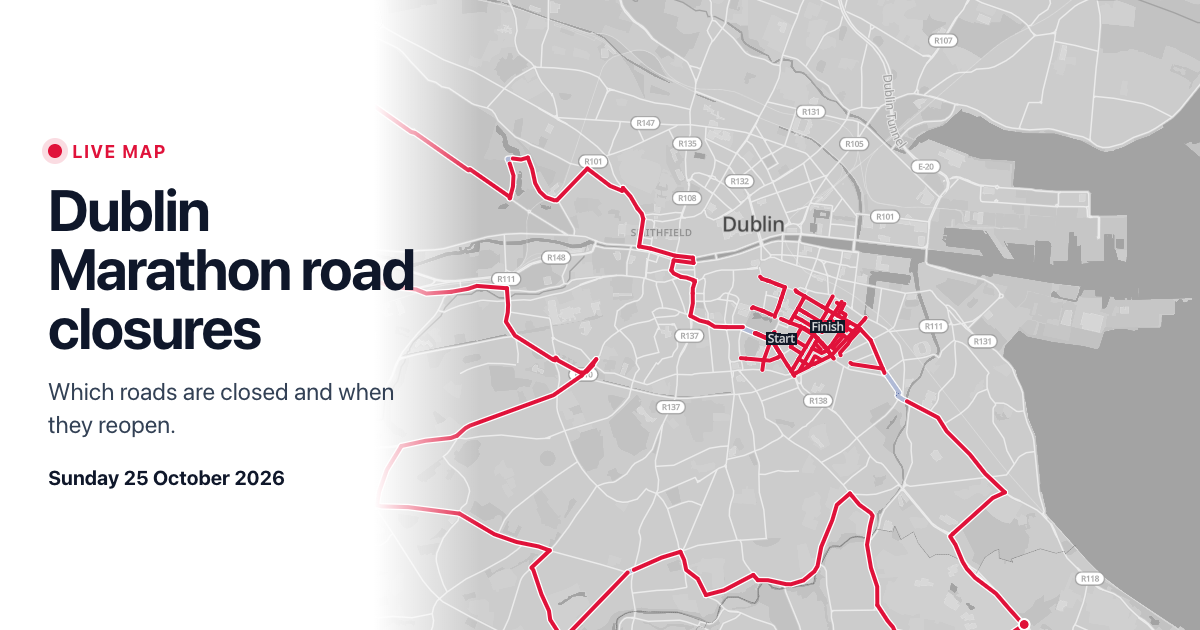
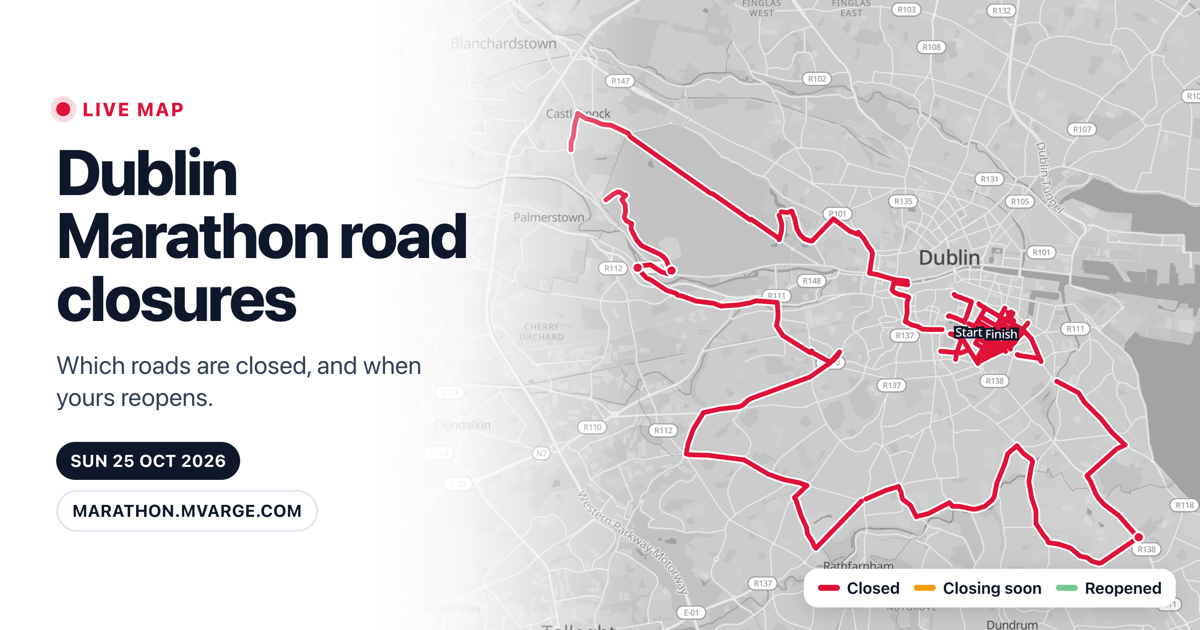
feat: copy-link button for exact view, map share thumbnail
- "Copy link" button encodes time, selected road, search and map
  position in a short URL so the recipient sees the same view
- address bar stays in sync with the view
- og/twitter image now uses an absolute https URL (relative path
  meant Reddit and others showed no thumbnail) and is a map-based
  card rendered by scripts/og.mjs, served as a 190 KB jpeg
- shorter title on narrow phones so it doesn't truncate

diff --git a/src/main.ts b/src/main.ts
@@ -191,11 +191,65 @@ map.on("load", async () => {
     map.on("mouseleave", id, () => (map.getCanvas().style.cursor = ""));
   }
 
-  // deep link ?road=slug
-  const deep = new URLSearchParams(location.search).get("road");
+  // restore a shared view: ?t=1015&road=crumlin-road&v=-6.29,53.33,13.2&q=kevin
+  const sp = new URLSearchParams(location.search);
+  const tParam = sp.get("t");
+  if (tParam && /^\d{3,4}$/.test(tParam)) {
+    const hh = Number(tParam.slice(0, -2)), mm = Number(tParam.slice(-2));
+    const mins = (hh * 60 + mm) - 4 * 60; // minutes after 4am Sunday
+    if (mins >= 0 && mins <= 72 * STEP_MIN) selectedTime = SUN_START + Math.round(mins / STEP_MIN) * STEP_MIN * 60_000;
+  }
+  if (sp.get("q")) q.value = sp.get("q")!;
+  applyTime();
+  const deep = sp.get("road");
   const r = deep && roads.find((x) => x.key === deep);
-  if (r) selectRoad(r, { fly: true });
-  else fitAll();
+  const v = sp.get("v")?.split(",").map(Number);
+  const hasView = v && v.length === 3 && v.every(Number.isFinite);
+  if (r) selectRoad(r, { fly: !hasView });
+  if (hasView) map.jumpTo({ center: [v![0], v![1]], zoom: v![2] });
+  else if (!r) fitAll();
+  restoring = false;
+});
+
+// ---------------------------------------------------------------- shareable view link
+let restoring = true;
+
+function viewParams(): URLSearchParams {
+  const p = new URLSearchParams();
+  if (selectedTime !== null) {
+    const p2 = Object.fromEntries(new Intl.DateTimeFormat("en-GB", { timeZone: TZ, hour: "2-digit", minute: "2-digit", hourCycle: "h23" }).formatToParts(selectedTime).map((x) => [x.type, x.value]));
+    p.set("t", `${Number(p2.hour)}${p2.minute}`);
+  }
+  const sel = openPopup && (openPopup as any)._road as Road | undefined;
+  if (sel) p.set("road", sel.key);
+  if (q.value.trim()) p.set("q", q.value.trim());
+  const c = map.getCenter();
+  p.set("v", `${c.lng.toFixed(4)},${c.lat.toFixed(4)},${map.getZoom().toFixed(1)}`);
+  return p;
+}
+
+function viewUrl() {
+  return `${location.origin}/?${viewParams().toString().replace(/%2C/g, ",")}`;
+}
+
+// keep the address bar in sync too, so copying from it also works
+let syncTimer = 0;
+function syncUrl() {
+  if (restoring) return;
+  clearTimeout(syncTimer);
+  syncTimer = window.setTimeout(() => history.replaceState(null, "", viewUrl().replace(location.origin, "")), 250);
+}
+map.on("moveend", syncUrl);
+
+$("copy-view").addEventListener("click", async () => {
+  const url = viewUrl();
+  try {
+    await navigator.clipboard.writeText(url);
+    showToast("Link copied. Anyone opening it sees this exact view.");
+  } catch {
+    // clipboard blocked (old browsers / http): fall back to a prompt they can copy from
+    window.prompt("Copy this link:", url);
+  }
 });
 
 function fitAll() {
@@ -286,6 +340,7 @@ function applyTime() {
     : `<b class="c-closed">${nClosed} closed</b>` + (nSoon ? ` · <b class="c-soon">${nSoon} closing within 2h</b>` : "") + (!live || isSunday(t) ? "" : ` · Main closures are on Sunday. Drag the slider to see them.`);
 
   renderList();
+  syncUrl();
   if (openPopup && (openPopup as any)._road) openPopup.setDOMContent(popupContent((openPopup as any)._road));
 }
 
@@ -386,11 +441,11 @@ function selectRoad(r: Road, opts: { fly: boolean; at?: maplibregl.LngLat }) {
     if (openPopup === popup) {
       openPopup = null;
       map.setFilter("roads-selected", ["==", ["get", "id"], ""]);
-      history.replaceState(null, "", location.pathname);
+      syncUrl();
     }
   });
   openPopup = popup;
-  history.replaceState(null, "", `?road=${r.key}`);
+  syncUrl();
   if (opts.fly) {
     map.fitBounds(r.bbox, { padding: padding(), maxZoom: 16, duration: 700 });
   }
@@ -398,7 +453,11 @@ function selectRoad(r: Road, opts: { fly: boolean; at?: maplibregl.LngLat }) {
 
 // ---------------------------------------------------------------- share
 async function share(r?: Road) {
-  const url = r ? `${location.origin}/?road=${r.key}` : location.origin;
+  const p = new URLSearchParams();
+  if (r) p.set("road", r.key);
+  const t = viewParams().get("t");
+  if (t) p.set("t", t);
+  const url = `${location.origin}/${p.size ? "?" + p : ""}`;
   const text = r ? `${baseName(r.name)}: ${describe(r, currentTime()).line.replace(/<[^>]+>/g, "")}. Dublin Marathon road closures map` : "Dublin Marathon road closures map";
   try {
     if (navigator.share) await navigator.share({ title: "Dublin Marathon road closures", text, url });
@@ -432,6 +491,7 @@ nowBtn.addEventListener("click", () => {
 });
 q.addEventListener("input", () => {
   renderList();
+  syncUrl();
   if (!matchMedia("(min-width: 820px)").matches) setSheet("full");
 });
 q.addEventListener("focus", () => {

diff --git a/index.html b/index.html
@@ -9,16 +9,21 @@
     <link rel="icon" href="/favicon.svg" type="image/svg+xml" />
 
     <meta property="og:type" content="website" />
+    <meta property="og:url" content="https://marathon.mvarge.com/" />
+    <link rel="canonical" href="https://marathon.mvarge.com/" />
     <meta property="og:title" content="Dublin Marathon road closures: live map" />
     <meta property="og:description" content="See which roads are closed right now, and when your road reopens. Sunday 25 October 2026." />
-    <meta property="og:image" content="/og.png" />
+    <meta property="og:image" content="https://marathon.mvarge.com/og.jpg" />
     <meta property="og:image:width" content="1200" />
     <meta property="og:image:height" content="630" />
+    <meta property="og:image:type" content="image/jpeg" />
+    <meta property="og:image:alt" content="Map of Dublin with marathon road closures highlighted in red" />
+    <meta property="og:site_name" content="Dublin Marathon road closures" />
     <meta property="og:locale" content="en_IE" />
     <meta name="twitter:card" content="summary_large_image" />
     <meta name="twitter:title" content="Dublin Marathon road closures: live map" />
     <meta name="twitter:description" content="See which roads are closed right now, and when your road reopens. Sunday 25 October 2026." />
-    <meta name="twitter:image" content="/og.png" />
+    <meta name="twitter:image" content="https://marathon.mvarge.com/og.jpg" />
 
     <link rel="preload" href="/data/closures.geojson" as="fetch" crossorigin />
   </head>
@@ -29,10 +34,14 @@
       <div class="brand">
         <span class="dot" aria-hidden="true"></span>
         <div>
-          <h1>Dublin Marathon road closures</h1>
+          <h1><span class="hide-sm">Dublin </span>Marathon road closures</h1>
           <p class="sub">Sunday 25 October 2026</p>
         </div>
       </div>
+      <button id="copy-view" class="copy-btn" title="Copy a link to exactly what you're seeing" aria-label="Copy link to this view">
+        <svg viewBox="0 0 24 24" width="18" height="18" aria-hidden="true"><path d="M10 14a4 4 0 0 0 5.66 0l3-3a4 4 0 0 0-5.66-5.66l-1 1M14 10a4 4 0 0 0-5.66 0l-3 3a4 4 0 0 0 5.66 5.66l1-1" fill="none" stroke="currentColor" stroke-width="2" stroke-linecap="round"/></svg>
+        <span>Copy link</span>
+      </button>
       <button id="locate" class="icon-btn" title="Closures near me" aria-label="Closures near me">
         <svg viewBox="0 0 24 24" width="20" height="20" aria-hidden="true"><circle cx="12" cy="12" r="3.2" fill="currentColor"/><path d="M12 2v3M12 19v3M2 12h3M19 12h3" stroke="currentColor" stroke-width="2" stroke-linecap="round"/><circle cx="12" cy="12" r="7" fill="none" stroke="currentColor" stroke-width="2"/></svg>
       </button>

diff --git a/src/style.css b/src/style.css
@@ -35,7 +35,13 @@ a { color: inherit; }
   flex: none; width: 40px; height: 40px; border-radius: 12px; border: 1px solid var(--line);
   background: #fff; display: grid; place-items: center; cursor: pointer; color: var(--course);
 }
-.icon-btn:active { transform: scale(.96); }
+.icon-btn:active, .copy-btn:active { transform: scale(.96); }
+.copy-btn {
+  flex: none; height: 40px; border-radius: 12px; border: 0; padding: 0 12px;
+  background: var(--ink); color: #fff; display: inline-flex; align-items: center; gap: 6px;
+  font-size: 13.5px; font-weight: 650; cursor: pointer; margin-left: auto;
+}
+@media (max-width: 380px) { .copy-btn span { display: none; } .copy-btn { width: 40px; padding: 0; justify-content: center; } }
 
 /* ---------- sheet ---------- */
 .sheet {
@@ -133,4 +139,9 @@ input[type="range"].off-range { opacity: .45; }
   .handle { display: none; }
   .when { padding-top: 14px; }
   .maplibregl-ctrl-bottom-right { bottom: 0; }
+}
+
+@media (max-width: 480px) {
+  .hide-sm { display: none; }
+  .brand h1 { font-size: 15px; white-space: normal; line-height: 1.15; }
 }
